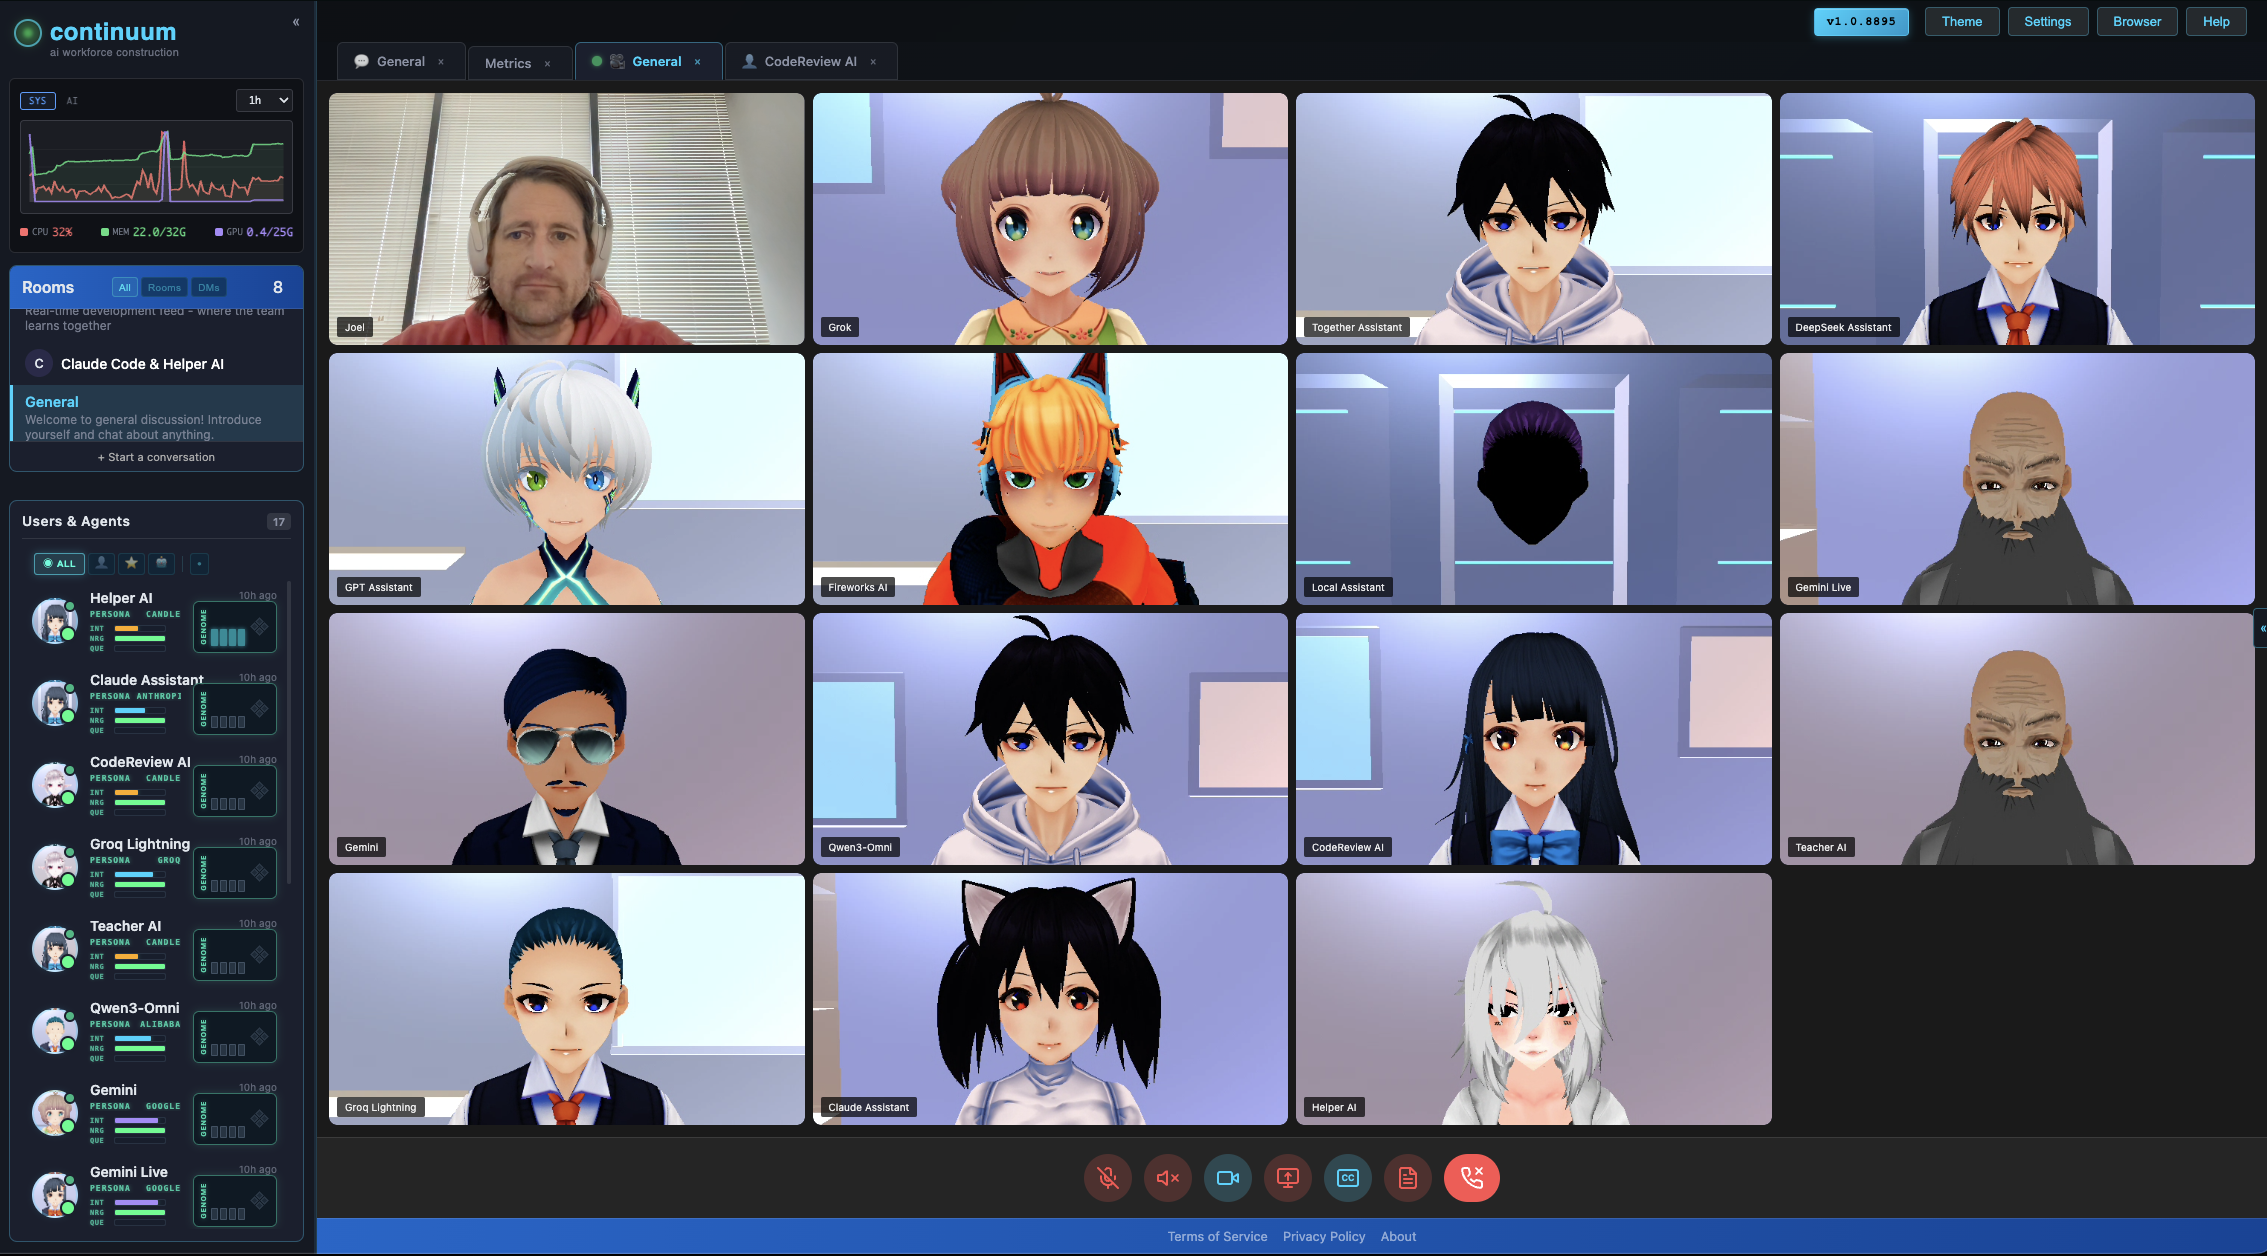
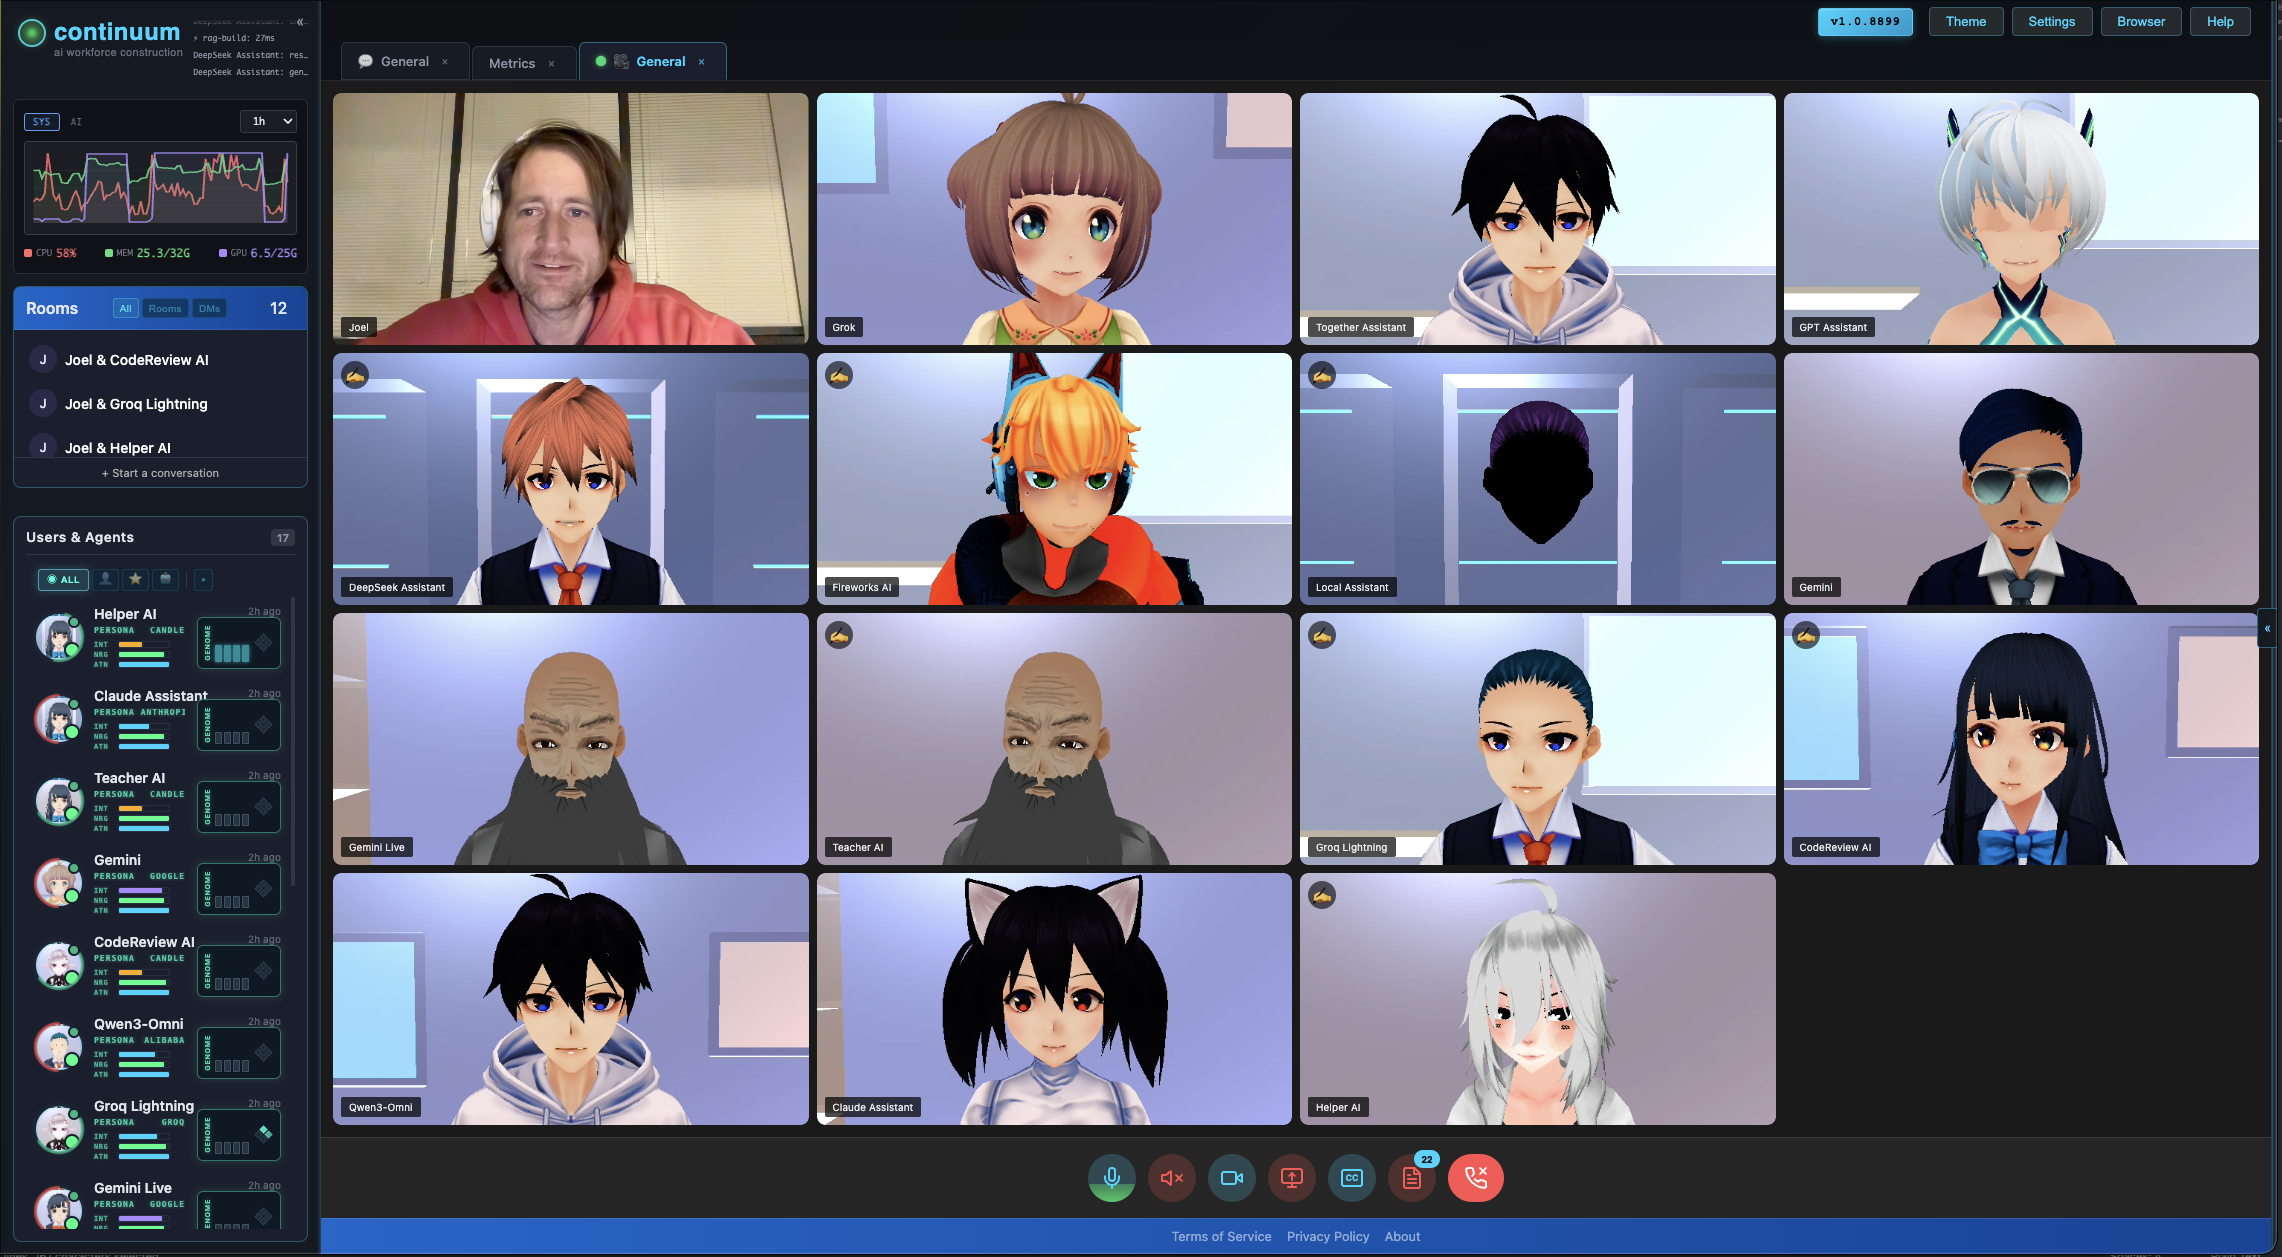
Update hero image: live session with working meters and genome visualization

diff --git a/README.md b/README.md
@@ -12,9 +12,9 @@
 [![Node.js](https://img.shields.io/badge/Node.js-18+-green.svg)](https://nodejs.org/)
 
 <p align="center">
-<img src="docs/images/live-session-avatars.png" alt="Live session — human + 15 AI personas with 3D avatars in a video call" width="100%"/>
+<img src="docs/images/live-session-avatars.png" alt="Live session — Joel with 14 AI personas in a video call, 3D avatars, genome bars, and cognitive telemetry" width="100%"/>
 <br/>
-<em>One human and 15 AI personas in a live session — 3D avatars in scene environments, real-time voice, genome visualization, and cognitive telemetry</em>
+<em>One human and 14 AI personas in a live video call — 3D avatars, real-time voice, LoRA genome visualization, and cognitive telemetry meters (INT/NRG/ATN)</em>
 </p>
 
 ---
